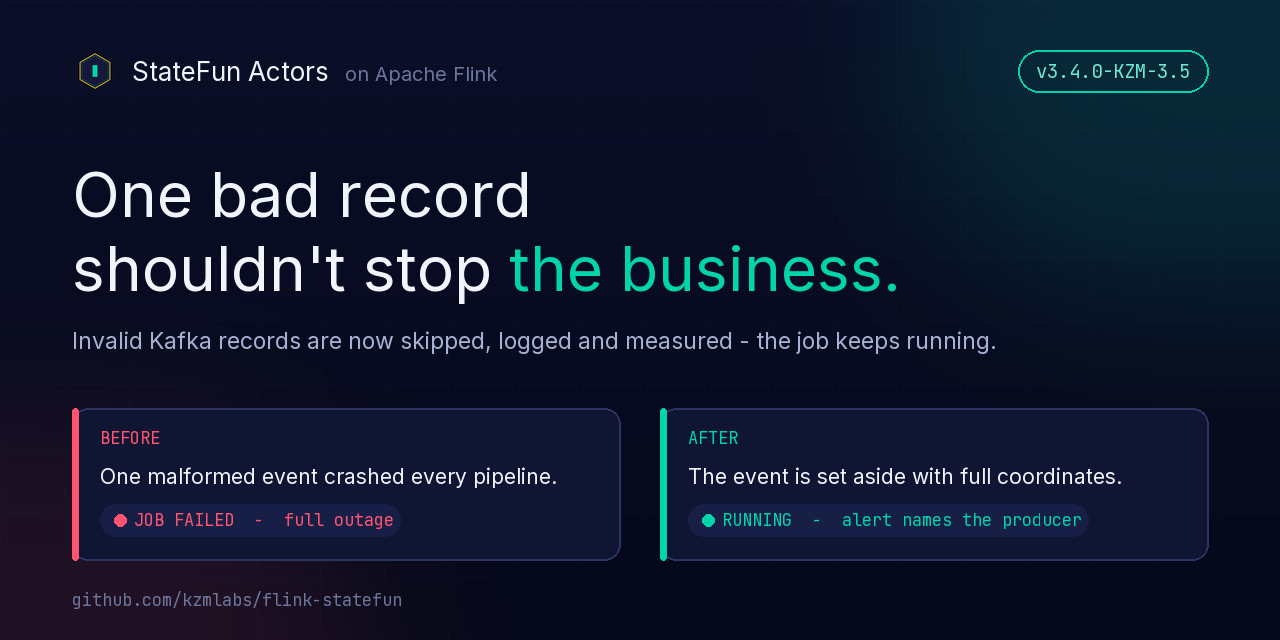
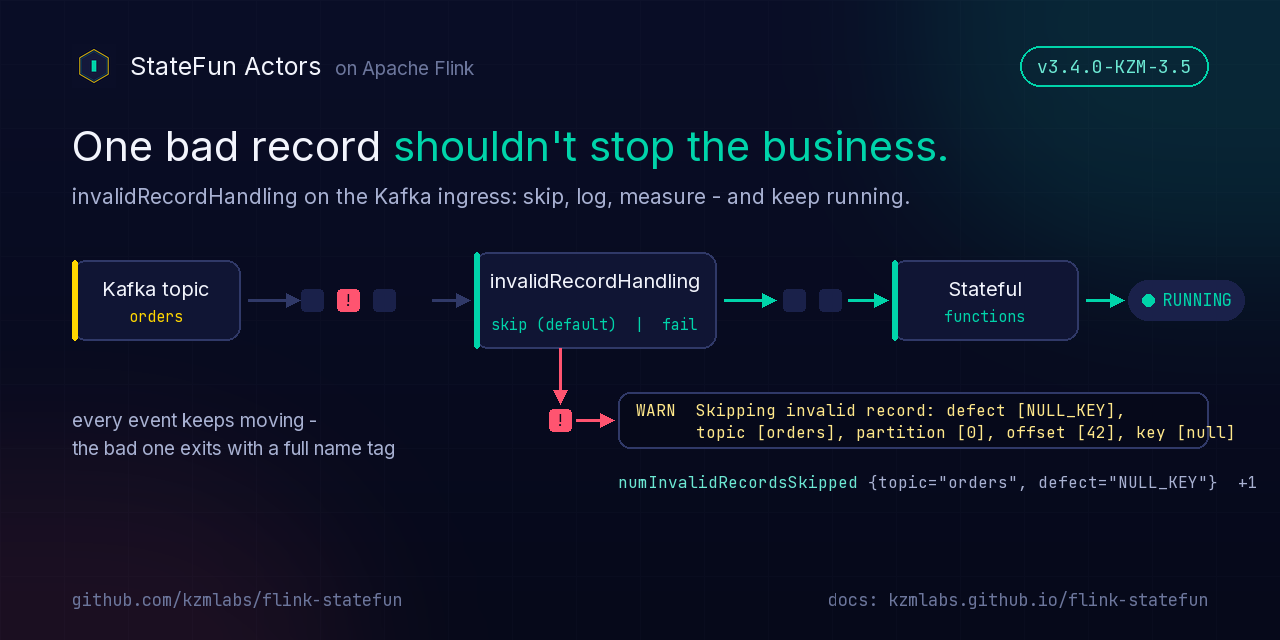
docs: article byline, release link, process-flow hero

diff --git a/docs/articles/invalid-record-handling.md b/docs/articles/invalid-record-handling.md
@@ -5,7 +5,9 @@ description: How a single null-key record crashed a whole Stateful Functions job
 
 # One bad Kafka record should not kill 20 pipelines
 
-![One bad event, ten thousand frozen deliveries: before and after invalidRecordHandling](../assets/invalid-record-handling-hero.png)
+*Published 2026-08-08 · by the kzmlabs maintainers*
+
+![One bad record shouldn't stop the business: invalidRecordHandling in StateFun Actors](../assets/invalid-record-handling-hero.png)
 
 Picture a delivery platform. Ten thousand orders in flight, each one an event on a Kafka topic, each topic feeding a Stateful Functions pipeline: order tracking, courier assignment, notifications, billing. Twenty topics, twenty pipelines, one Flink job.
 
@@ -13,7 +15,7 @@ Now one producer publishes a single malformed order event: a record with no key.
 
 In Apache Stateful Functions, that one record crashed the entire job. Not the one pipeline that consumed it - all twenty. Order tracking down, couriers idle, customers refreshing the app. One bad record, platform-wide outage.
 
-As of StateFun Actors 3.4.0-KZM-3.5, that is no longer the default behavior. This article walks through what actually happened inside the runtime, why it was a business problem rather than an engineering nuisance, and what the `invalidRecordHandling` policy does about it.
+As of [StateFun Actors 3.4.0-KZM-3.5](https://github.com/kzmlabs/flink-statefun/releases/tag/v3.4.0-KZM-3.5), that is no longer the default behavior. This article walks through what actually happened inside the runtime, why it was a business problem rather than an engineering nuisance, and what the `invalidRecordHandling` policy does about it.
 
 ## What actually happens on a bad record?
 
